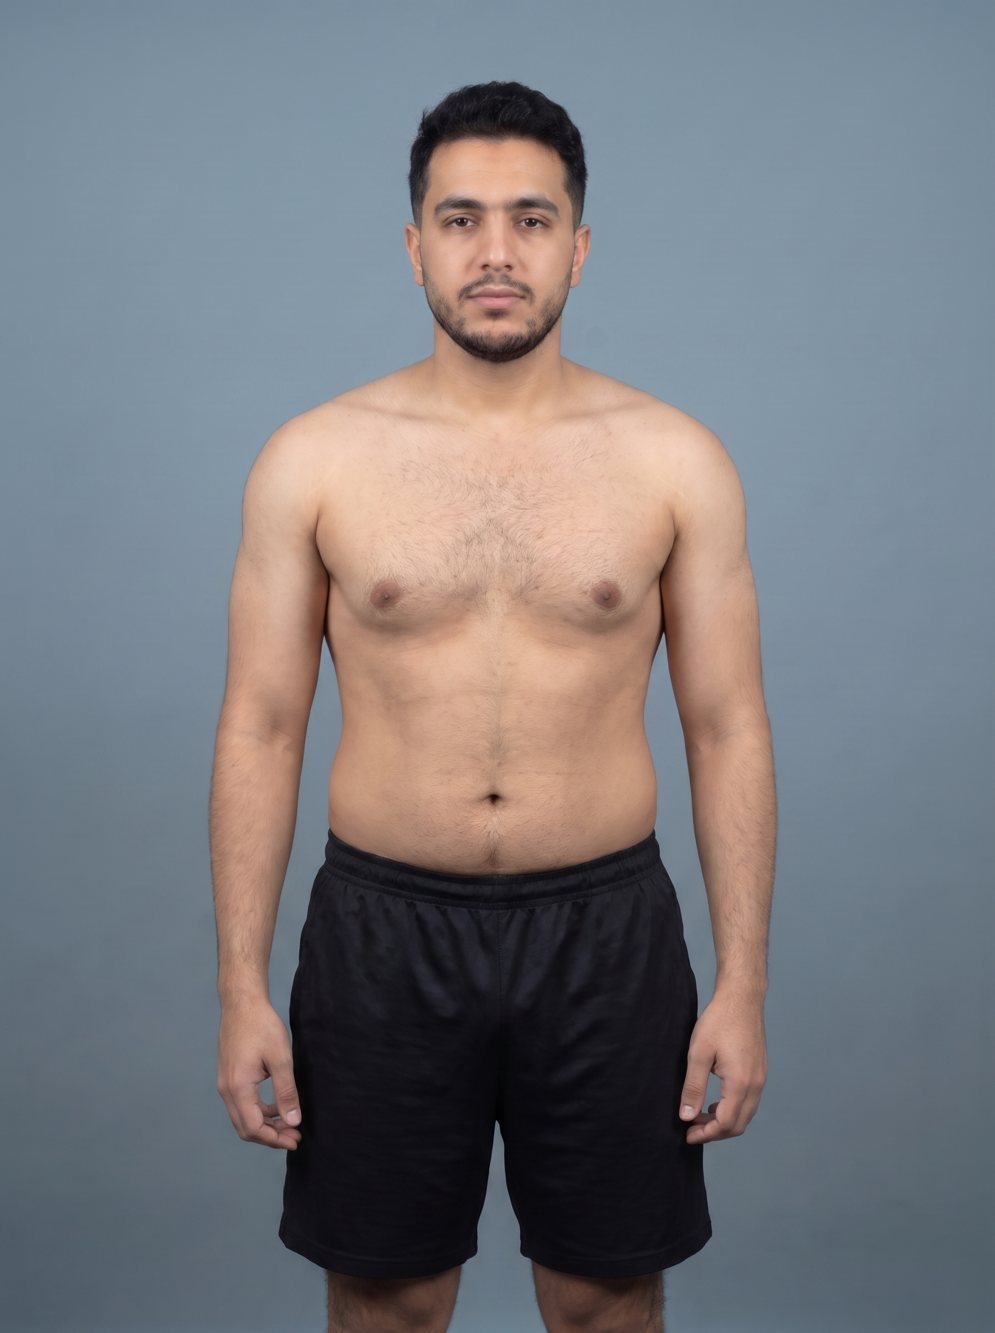
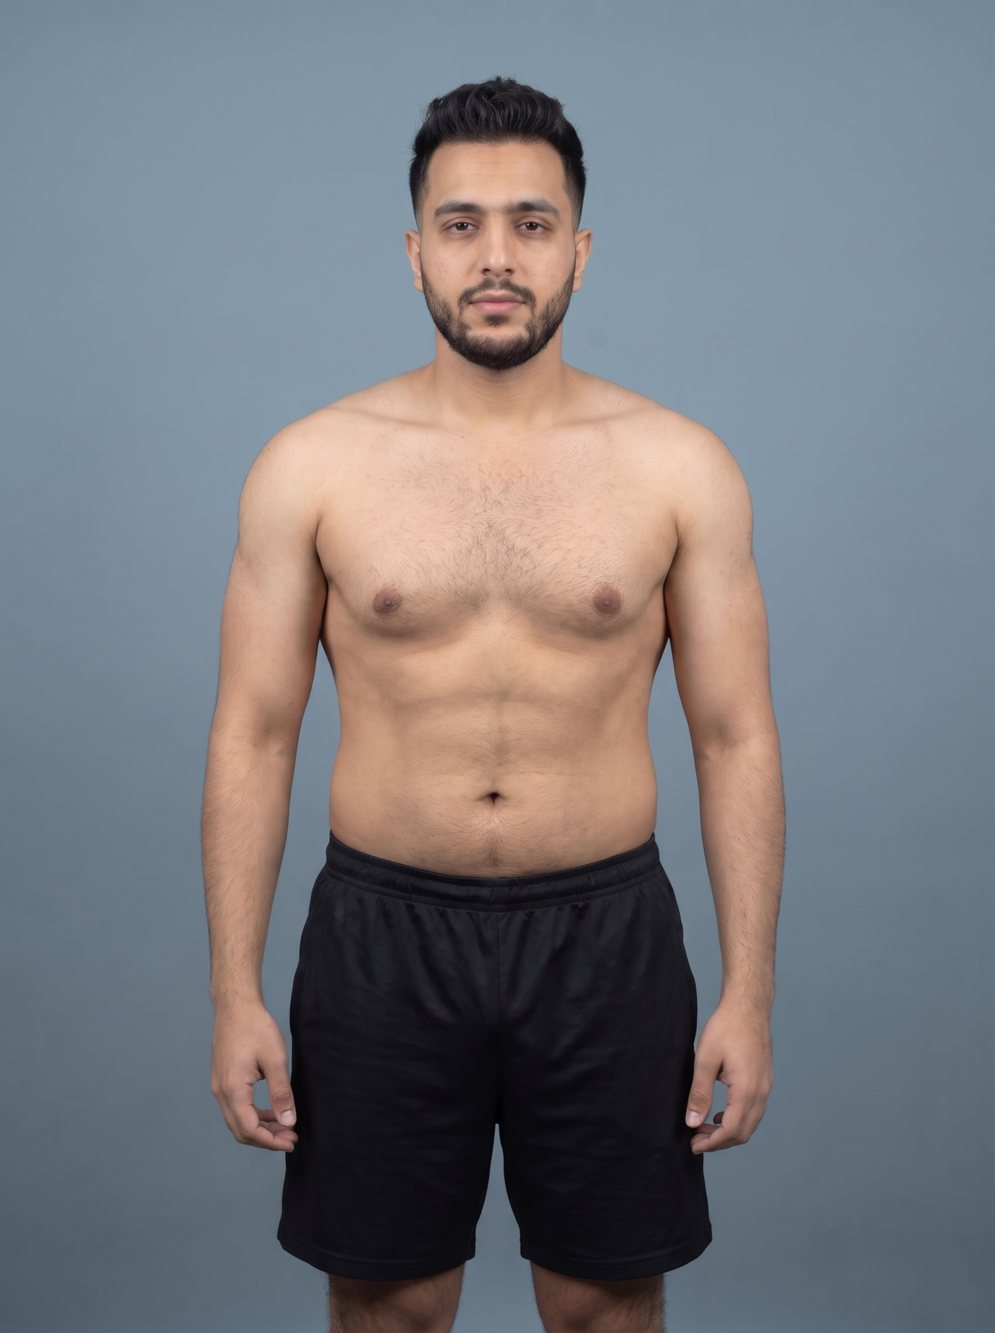
Stronger 12-month after for the sample; care-network section on the landing
- New sample afters: textured quiff with tapered sides, fully filled groomed
  beard, leaner face; body at ~12% with visible V-taper and corrected posture
- Landing: Care network section with interactive integration hub
  (dermatologists, dietitians & meal kitchens, InBody, trainers, non-surgical
  clinics: what is sent, what comes back, follow-up cadence) and a 12-month
  follow-up timeline; nav link

Claude-Session: https://claude.ai/code/session_01YK5LfND9fHzJNnxfHhhsd1

diff --git a/app/src/pages/Landing.tsx b/app/src/pages/Landing.tsx
@@ -118,6 +118,7 @@ export function Landing() {
           <div className="lp-nav-links">
             <a href="#why">Why it works</a>
             <a href="#how">How it works</a>
+            <a href="#care">Care network</a>
             <a href="#pricing">Pricing</a>
             <a href="#faq">FAQ</a>
           </div>
@@ -138,6 +139,7 @@ export function Landing() {
         <PlanSection data={data} />
         <FutureSelf />
         <Track data={data} />
+        <CareNetwork />
         <Measures />
         <How />
         <Pricing />
@@ -655,6 +657,136 @@ const MEASURES: { name: string; n: number; text: string; method?: string; refs?:
   { name: "Composition", n: 4, text: "BMI, photo-estimated waist, waist-to-height and body-fat estimate.", method: "composition" },
   { name: "Nutrition", n: 6, text: "Energy needs, calorie target, protein, fat, carbs and fibre for each phase.", refs: ["mifflin1990", "morton2018"] },
 ];
+
+/* ------------------------------------------------------------------ */
+/*  Care network · partners + integrations + follow-ups                */
+/* ------------------------------------------------------------------ */
+
+const PARTNERS = [
+  {
+    k: "derm",
+    name: "Dermatologists",
+    who: "Licensed, DHA / MOH registered",
+    out: "Your skin findings & photos you choose to share",
+    back: "Prescriptions and notes update your skin plan",
+    cadence: "Follow-ups at weeks 6 and 12",
+  },
+  {
+    k: "diet",
+    name: "Dietitians & meal kitchens",
+    who: "Registered dietitians, macro-matched meals",
+    out: "Calorie & macro targets, phase, allergies",
+    back: "Weekly weigh-ins adjust your targets",
+    cadence: "Check-ins every 2 weeks",
+  },
+  {
+    k: "inbody",
+    name: "Body composition",
+    who: "InBody & DEXA centres",
+    out: "Booking request only",
+    back: "Measured body fat replaces the photo estimate",
+    cadence: "Baseline, then every 3 months",
+  },
+  {
+    k: "coach",
+    name: "Coaches & trainers",
+    who: "Certified personal trainers",
+    out: "Your training split & posture priorities",
+    back: "Logged sessions feed your progress",
+    cadence: "Weekly sessions",
+  },
+  {
+    k: "clinic",
+    name: "Non-surgical clinics",
+    who: "Licensed aesthetic practitioners",
+    out: "Only the plan section you select",
+    back: "Consultation outcome added to your plan",
+    cadence: "Consultation first, always",
+  },
+];
+
+const FOLLOW = [
+  { t: "Week 0", d: "Analysis & plan, reviewed" },
+  { t: "Week 2", d: "Partner intros booked" },
+  { t: "Week 6", d: "Dermatologist follow-up" },
+  { t: "Month 3", d: "InBody re-scan · plan update" },
+  { t: "Month 6", d: "Check-in · new 12-month visual" },
+  { t: "Month 12", d: "Final report & next goals" },
+];
+
+function CareNetwork() {
+  const [active, setActive] = useState(0);
+  const p = PARTNERS[active];
+  return (
+    <section className="lp-sec" id="care">
+      <Head
+        center
+        kicker="Care network"
+        dark="Your plan, carried out"
+        muted="by specialists."
+        lead="We partner with licensed dermatologists, registered dietitians and vetted specialists. Your plan connects to them, with follow-ups built in."
+      />
+      <div className="lp-care">
+        <div className="lp-hub">
+          <svg viewBox="0 0 400 400" className="lp-hub-lines" aria-hidden>
+            {PARTNERS.map((_, i) => {
+              const a = -Math.PI / 2 + (i * 2 * Math.PI) / PARTNERS.length;
+              return (
+                <line
+                  key={i}
+                  x1={200}
+                  y1={200}
+                  x2={200 + Math.cos(a) * 150}
+                  y2={200 + Math.sin(a) * 150}
+                  className={i === active ? "on" : ""}
+                />
+              );
+            })}
+          </svg>
+          <div className="lp-hub-core">
+            <span className="lp-mono">Your plan</span>
+            <b>Targets · follow-ups · results</b>
+          </div>
+          {PARTNERS.map((x, i) => {
+            const a = -Math.PI / 2 + (i * 2 * Math.PI) / PARTNERS.length;
+            return (
+              <button
+                key={x.k}
+                className={`lp-hub-node ${i === active ? "on" : ""}`}
+                style={{ left: `${50 + Math.cos(a) * 37.5}%`, top: `${50 + Math.sin(a) * 37.5}%` }}
+                onClick={() => setActive(i)}
+              >
+                {x.name}
+              </button>
+            );
+          })}
+        </div>
+        <div className="lp-care-card">
+          <span className="lp-mono">Integration</span>
+          <h3>{p.name}</h3>
+          <p className="lp-care-who">{p.who}</p>
+          <div className="lp-care-rows">
+            <div><span className="lp-mono">Sent from your plan</span><span>{p.out}</span></div>
+            <div><span className="lp-mono">Comes back</span><span>{p.back}</span></div>
+            <div><span className="lp-mono">Follow-up</span><span>{p.cadence}</span></div>
+          </div>
+          <p className="lp-care-note">You choose what's shared, booking by booking. Photos are never shared automatically.</p>
+        </div>
+      </div>
+
+      <div className="lp-follow">
+        {FOLLOW.map((f, i) => (
+          <div key={f.t} className="lp-follow-step">
+            <i>{i + 1}</i>
+            <b>{f.t}</b>
+            <span>{f.d}</span>
+          </div>
+        ))}
+      </div>
+      <p className="lp-care-launch lp-mono">Partner network launching in the UAE & Saudi Arabia</p>
+    </section>
+  );
+}
 
 function Measures() {
   const [open, setOpen] = useState<number | null>(0);

diff --git a/app/src/pages/Landing.css b/app/src/pages/Landing.css
@@ -1500,3 +1500,183 @@
     margin-inline-start: 0;
   }
 }
+
+/* ---------------- Care network ---------------- */
+.lp-care {
+  display: grid;
+  grid-template-columns: 1.1fr 1fr;
+  gap: 28px;
+  align-items: center;
+  margin-top: 8px;
+}
+.lp-hub {
+  position: relative;
+  aspect-ratio: 1;
+  max-width: 460px;
+  width: 100%;
+  margin: 0 auto;
+}
+.lp-hub-lines {
+  position: absolute;
+  inset: 0;
+  width: 100%;
+  height: 100%;
+}
+.lp-hub-lines line {
+  stroke: #d6dddf;
+  stroke-width: 1;
+  stroke-dasharray: 3 4;
+}
+.lp-hub-lines line.on {
+  stroke: var(--slate-dark);
+  stroke-dasharray: none;
+}
+.lp-hub-core {
+  position: absolute;
+  left: 50%;
+  top: 50%;
+  translate: -50% -50%;
+  width: 34%;
+  aspect-ratio: 1;
+  border-radius: 50%;
+  display: flex;
+  flex-direction: column;
+  align-items: center;
+  justify-content: center;
+  gap: 4px;
+  text-align: center;
+  padding: 10px;
+  background: linear-gradient(160deg, #9fb3ba, #71878e);
+  color: #fff;
+  box-shadow: 0 10px 40px rgba(60, 80, 90, 0.25);
+}
+.lp-hub-core .lp-mono {
+  color: rgba(255, 255, 255, 0.75);
+}
+.lp-hub-core b {
+  font-weight: 400;
+  font-size: 12.5px;
+  line-height: 1.3;
+}
+.lp-hub-node {
+  position: absolute;
+  translate: -50% -50%;
+  max-width: 132px;
+  padding: 8px 12px;
+  border-radius: 999px;
+  background: var(--surface);
+  border: 1px solid var(--line);
+  box-shadow: var(--shadow-md);
+  font-size: 12.5px;
+  color: var(--ink-2);
+  line-height: 1.25;
+  transition: all 0.2s ease;
+}
+.lp-hub-node.on {
+  background: var(--ink);
+  color: #fff;
+  border-color: var(--ink);
+}
+.lp-care-card {
+  border: 1px solid var(--line);
+  border-radius: 22px;
+  padding: 26px;
+  background: var(--card);
+  display: flex;
+  flex-direction: column;
+  gap: 12px;
+}
+.lp-care-card h3 {
+  margin: 0;
+  font-size: 26px;
+  font-weight: 400;
+  letter-spacing: -0.03em;
+}
+.lp-care-who {
+  margin: -4px 0 4px;
+  color: var(--muted);
+  font-size: 13.5px;
+}
+.lp-care-rows {
+  display: grid;
+  gap: 0;
+  border-top: 1px solid var(--line);
+}
+.lp-care-rows > div {
+  display: grid;
+  grid-template-columns: 150px 1fr;
+  gap: 12px;
+  padding: 12px 0;
+  border-bottom: 1px solid var(--line);
+  font-size: 14px;
+  color: var(--ink-2);
+}
+.lp-care-note {
+  margin: 4px 0 0;
+  font-size: 12.5px;
+  color: var(--muted);
+}
+.lp-follow {
+  margin-top: 40px;
+  display: grid;
+  grid-template-columns: repeat(6, 1fr);
+  border-top: 1px solid var(--line);
+}
+.lp-follow-step {
+  position: relative;
+  padding: 22px 14px 0 0;
+  display: flex;
+  flex-direction: column;
+  gap: 6px;
+  font-size: 13px;
+  color: var(--ink-3);
+}
+.lp-follow-step i {
+  position: absolute;
+  top: -7px;
+  left: 0;
+  width: 14px;
+  height: 14px;
+  border-radius: 50%;
+  background: var(--surface);
+  border: 1px solid var(--slate);
+  font-size: 0;
+}
+.lp-follow-step b {
+  font-weight: 400;
+  font-size: 15px;
+  color: var(--ink);
+}
+.lp-care-launch {
+  margin-top: 28px;
+  text-align: center;
+}
+@media (max-width: 900px) {
+  .lp-care {
+    grid-template-columns: 1fr;
+  }
+  .lp-follow {
+    grid-template-columns: 1fr 1fr;
+    row-gap: 22px;
+    border-top: 0;
+  }
+  .lp-follow-step {
+    border-top: 1px solid var(--line);
+  }
+  .lp-care-rows > div {
+    grid-template-columns: 1fr;
+    gap: 4px;
+  }
+  .lp-hub-node {
+    font-size: 11px;
+    padding: 6px 9px;
+    max-width: 96px;
+  }
+}
+.lp-mono {
+  font-family: var(--mono);
+  font-size: 10.5px;
+  letter-spacing: 0.08em;
+  text-transform: uppercase;
+  color: var(--label);
+}

diff --git a/app/src/lib/sample.ts b/app/src/lib/sample.ts
@@ -31,5 +31,5 @@ export const sampleVisuals: Visuals = {
   baseline: S + "face.jpg",
   after: S + "face_after.jpg",
   body: { front: S + "body_front.jpg", side: S + "body_side.jpg", afterFront: S + "body_after_front.jpg", afterSide: S + "body_after_side.jpg" },
-  styles: [{ name: "Tapered cut · groomed short beard", front: S + "face_after.jpg", left: S + "face_left.jpg", right: S + "face_right.jpg" }],
+  styles: [{ name: "Textured quiff · full groomed beard", front: S + "face_after.jpg" }],
 };
